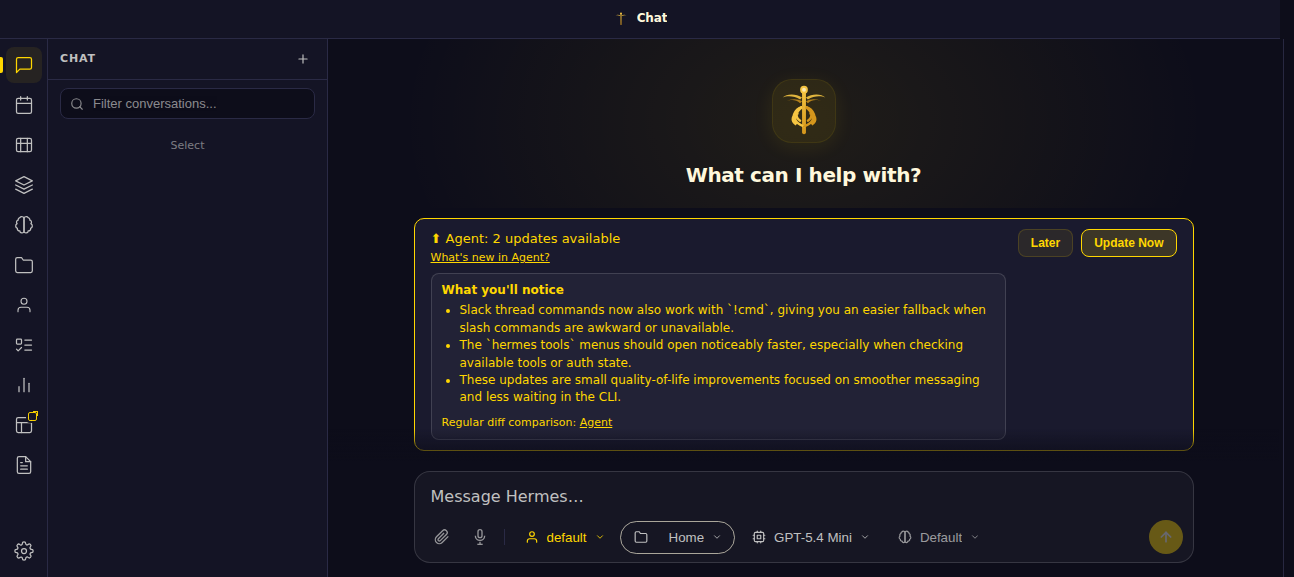
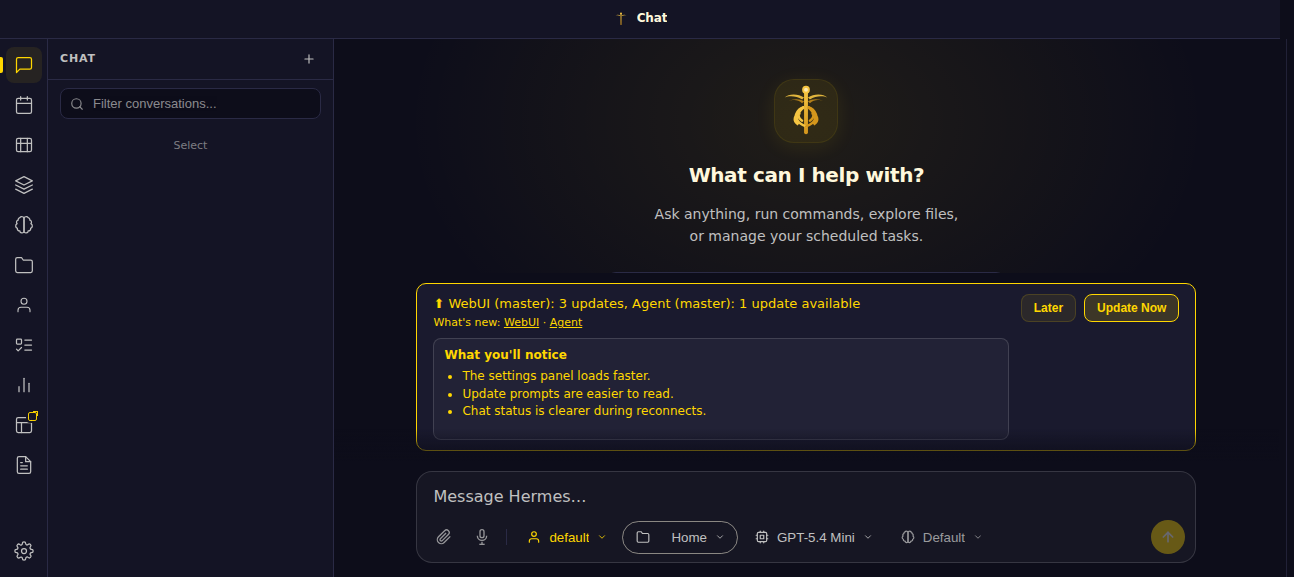
fix: refine update summary category handling
Keep distinct generated summary categories, route update-summary generation through the configured auxiliary model first, disclose capped large-range summary input, and constrain long summary panels.

diff --git a/static/style.css b/static/style.css
@@ -571,6 +571,7 @@
   .update-banner{display:none;background:var(--surface);border:1px solid var(--accent);border-radius:10px;padding:10px 16px;margin:10px auto;max-width:780px;width:calc(100% - 24px);box-sizing:border-box;font-size:13px;color:var(--accent-text);align-items:flex-start;justify-content:space-between;gap:12px;flex-wrap:wrap;overflow-wrap:anywhere;}
   .update-banner.visible{display:flex;}
   #updateMsg,#updateWhatsNewLinks,#updateSummaryPanel,#updateSummaryDiffLinks{max-width:100%;overflow-wrap:anywhere;word-break:break-word;}
+  #updateSummaryPanel{max-height:min(34vh,260px);overflow:auto;overscroll-behavior:contain;scrollbar-gutter:stable;scrollbar-width:thin;scrollbar-color:var(--accent) transparent;}
   #updateWhatsNewLinks{white-space:normal!important;margin-left:0!important;}
   .update-banner>div:last-child{margin-left:auto;}
   @media (max-width:600px){.update-banner{width:calc(100% - 16px);padding:10px 12px;gap:10px;}.update-banner>div:last-child{width:100%;justify-content:flex-end;}}

diff --git a/tests/test_update_banner_fixes.py b/tests/test_update_banner_fixes.py
@@ -418,7 +418,18 @@ class TestForceUpdateRoute:
         )
 
 
-# ── static/ui.js ──────────────────────────────────────────────────────────────
+class TestUpdateSummaryRouteModelSelection:
+    """Update summaries should use the auxiliary update-summary model before main model fallback."""
+
+    def test_summary_route_prefers_update_summary_auxiliary_model(self):
+        src = read('api/routes.py')
+
+        assert 'get_text_auxiliary_client' in src
+        assert '"update_summary"' in src
+        assert 'main_runtime=main_runtime' in src
+        assert 'update summary auxiliary model failed; falling back to main model' in src
+        assert 'from run_agent import AIAgent' in src
+
 
 class TestUiJsUpdateBanner:
     """#813 + #814 — UI must show persistent error, force button, and correct toast."""
@@ -792,7 +803,7 @@ class TestWhatsNewSummaryToggle:
         assert 'human-readable' in updates
         assert 'avoid technical jargon' in updates
         assert 'regular diff comparison' in updates
-        assert 'Return only bullets' in updates
+        assert 'Return only prefixed bullets' in updates
         assert 'def _format_update_summary_sections' in updates
 
     def test_update_summary_formats_llm_text_into_stable_sections(self):
@@ -875,6 +886,43 @@ class TestWhatsNewSummaryToggle:
         assert result['summary'].count(duplicate_menu_item) == 1
         assert result['summary'].count(duplicate_quality_item) == 1
 
+    def test_update_summary_keeps_all_categorized_notice_and_worth_bullets(self):
+        from api.updates import summarize_update_payload
+
+        result = summarize_update_payload(
+            {'webui': {'behind': 8, 'current_sha': 'abc', 'latest_sha': 'def', 'compare_url': 'https://example.test/webui'}},
+            llm_callback=lambda _system, _prompt: '\n'.join(
+                [
+                    'Notice: The settings panel loads faster.',
+                    'Notice: Update prompts are easier to read.',
+                    'Notice: Chat status is clearer during reconnects.',
+                    'Notice: Tool results stay grouped by source.',
+                    'Notice: Mobile controls remain visible.',
+                    'Worth knowing: Some labels were renamed to match the new flow.',
+                    'Worth knowing: The full diff is still available from the update banner.',
+                ]
+            ),
+            use_cache=False,
+        )
+        sections = {section['title']: section['items'] for section in result['summary_sections']}
+
+        assert sections["What you'll notice"] == [
+            'The settings panel loads faster.',
+            'Update prompts are easier to read.',
+            'Chat status is clearer during reconnects.',
+            'Tool results stay grouped by source.',
+            'Mobile controls remain visible.',
+        ]
+        assert sections['Worth knowing'] == [
+            'Some labels were renamed to match the new flow.',
+            'The full diff is still available from the update banner.',
+        ]
+
+    def test_update_summary_panel_is_scrollable_for_long_summaries(self):
+        style = read('static/style.css')
+
+        assert '#updateSummaryPanel{max-height:min(34vh,260px);overflow:auto;overscroll-behavior:contain;scrollbar-gutter:stable;scrollbar-width:thin;scrollbar-color:var(--accent) transparent;}' in style
+
     def test_update_summary_many_updates_caps_commit_input_and_discloses_scope(self, monkeypatch):
         import api.updates as upd
 
@@ -889,9 +937,11 @@ class TestWhatsNewSummaryToggle:
         def fake_llm(_system, prompt):
             prompts.append(prompt)
             return '\n'.join([
-                'Several user-facing fixes are ready.',
-                'Settings and update messaging should be easier to understand.',
-                'The update flow should feel safer and clearer.',
+                'Notice: Several user-facing fixes are ready.',
+                'Notice: Settings and update messaging should be easier to understand.',
+                'Notice: The update flow should feel safer and clearer.',
+                'Notice: Mobile update controls should stay reachable.',
+                'Worth knowing: Some lower-level cleanup supports the visible update changes.',
             ])
 
         result = upd.summarize_update_payload(
@@ -918,9 +968,11 @@ class TestWhatsNewSummaryToggle:
             'Several user-facing fixes are ready.',
             'Settings and update messaging should be easier to understand.',
             'The update flow should feel safer and clearer.',
+            'Mobile update controls should stay reachable.',
         ]
         assert sections['Worth knowing'] == [
-            'WebUI has 57 updates; this summary uses the latest 24 commit subjects, with the full comparison still available in the diff link.'
+            'Some lower-level cleanup supports the visible update changes.',
+            'WebUI has 57 updates; this summary uses the latest 24 commit subjects, with the full comparison still available in the diff link.',
         ]
         assert result['targets'][0]['commits_truncated'] is True
 

diff --git a/api/updates.py b/api/updates.py
@@ -369,11 +369,34 @@ def _clean_summary_bullet(line: str) -> str:
     return line[:240]
 
 
+def _split_summary_category(line: str) -> tuple[str | None, str]:
+    raw = str(line or '').strip()
+    match = re.match(r'^\s*(?:[-*•]+|\d+[.)])?\s*(notice|what you(?:ll|\'ll| will) notice|user(?:s)? will notice|worth knowing|worth|note)\s*:\s*(.+)$', raw, re.I)
+    if not match:
+        return None, raw
+    label = match.group(1).lower()
+    category = 'worth' if label in {'worth knowing', 'worth', 'note'} else 'notice'
+    return category, match.group(2)
+
+
+def _unique_summary_bullets(items: list[str]) -> list[str]:
+    seen = set()
+    bullets = []
+    for item in items:
+        cleaned = _clean_summary_bullet(item)
+        key = cleaned.lower()
+        if cleaned and key not in seen:
+            bullets.append(cleaned)
+            seen.add(key)
+    return bullets
+
+
 def _summary_bullets_from_text(text: str, *, fallback_items: list[str]) -> list[str]:
     raw = str(text or '').strip()
     candidates = []
     for line in raw.splitlines():
-        cleaned = _clean_summary_bullet(line)
+        _category, body = _split_summary_category(line)
+        cleaned = _clean_summary_bullet(body)
         if cleaned:
             candidates.append(cleaned)
     if len(candidates) <= 1 and raw:
@@ -381,16 +404,20 @@ def _summary_bullets_from_text(text: str, *, fallback_items: list[str]) -> list[
         candidates = [item for item in candidates if item]
     if not candidates:
         candidates = [_clean_summary_bullet(item) for item in fallback_items]
-    seen = set()
-    bullets = []
-    for item in candidates:
-        key = item.lower()
-        if item and key not in seen:
-            bullets.append(item)
-            seen.add(key)
-        if len(bullets) >= 5:
-            break
+    bullets = _unique_summary_bullets(candidates)
     return bullets or ['Updates are available.']
+
+
+def _categorized_summary_bullets_from_text(text: str) -> tuple[list[str], list[str]]:
+    notice_items: list[str] = []
+    worth_items: list[str] = []
+    for line in str(text or '').splitlines():
+        category, body = _split_summary_category(line)
+        if category == 'notice':
+            notice_items.append(body)
+        elif category == 'worth':
+            worth_items.append(body)
+    return _unique_summary_bullets(notice_items), _unique_summary_bullets(worth_items)
 
 
 def _fallback_update_bullets(details: list[dict]) -> list[str]:
@@ -431,21 +458,15 @@ def _worth_knowing_bullets(details: list[dict]) -> list[str]:
 
 
 def _format_update_summary_sections(summary_text: str, details: list[dict]) -> tuple[list[dict], str]:
-    bullets = _summary_bullets_from_text(summary_text, fallback_items=_fallback_update_bullets(details))
-    if len(bullets) > 1:
-        notice_items = bullets[:3]
-        worth_items = bullets[3:]
-    else:
-        notice_items = bullets
-        worth_items = []
+    notice_items, worth_items = _categorized_summary_bullets_from_text(summary_text)
+    if not notice_items:
+        notice_items = _summary_bullets_from_text(summary_text, fallback_items=_fallback_update_bullets(details))
     notice_keys = {item.lower() for item in notice_items}
     worth_items = [item for item in worth_items if item.lower() not in notice_keys]
-    if not worth_items:
-        worth_items = [
-            item for item in _worth_knowing_bullets(details)
-            if item.lower() not in notice_keys
-        ]
-    worth_items = worth_items[:2]
+    worth_items.extend(
+        item for item in _worth_knowing_bullets(details)
+        if item.lower() not in notice_keys and item.lower() not in {existing.lower() for existing in worth_items}
+    )
     sections = [
         {
             'title': "What you'll notice",
@@ -480,9 +501,12 @@ def _update_summary_prompt(details: list[dict]) -> tuple[str, str]:
         "Return only bullets. Do not include headings, markdown tables, intro paragraphs, or closing notes."
     )
     user_lines = [
-        "Summarize these available updates as 3-5 concise bullets.",
+        "Summarize these available updates as concise bullets.",
+        "Prefix each bullet with `Notice:` for user-visible behavior changes or `Worth knowing:` for useful context.",
+        "Put user-visible Notice bullets first and include every meaningful user-facing change from the available commit subjects.",
+        "Use Worth knowing only for helpful context that is not a duplicate of a Notice bullet.",
         "Use everyday language and explain visible behavior changes, not code mechanics.",
-        "Return only bullets; the WebUI will add the fixed section headings separately.",
+        "Return only prefixed bullets; the WebUI will add the fixed section headings separately.",
         "",
     ]
     for item in details:

diff --git a/api/routes.py b/api/routes.py
@@ -5312,41 +5312,71 @@ def handle_post(handler, parsed) -> bool:
         target = body.get("target") if isinstance(body, dict) else None
 
         def _llm_update_summary(system_prompt: str, user_prompt: str) -> str:
-            from run_agent import AIAgent
             from api.config import (
                 get_effective_default_model,
                 resolve_model_provider,
                 resolve_custom_provider_connection,
             )
 
-            _model, _provider, _base_url = resolve_model_provider(get_effective_default_model())
-            _api_key = None
+            messages = [
+                {"role": "system", "content": system_prompt},
+                {"role": "user", "content": user_prompt},
+            ]
+
+            _main_model, _main_provider, _main_base_url = resolve_model_provider(get_effective_default_model())
+            _main_api_key = None
             try:
                 from api.oauth import resolve_runtime_provider_with_anthropic_env_lock
                 from hermes_cli.runtime_provider import resolve_runtime_provider
 
                 _rt = resolve_runtime_provider_with_anthropic_env_lock(
                     resolve_runtime_provider,
-                    requested=_provider,
+                    requested=_main_provider,
                 )
-                _api_key = _rt.get("api_key")
-                if not _provider:
-                    _provider = _rt.get("provider")
-                if not _base_url:
-                    _base_url = _rt.get("base_url")
+                _main_api_key = _rt.get("api_key")
+                if not _main_provider:
+                    _main_provider = _rt.get("provider")
+                if not _main_base_url:
+                    _main_base_url = _rt.get("base_url")
             except Exception as _e:
                 logger.debug("update summary runtime provider resolution failed: %s", _e)
-            if isinstance(_provider, str) and _provider.startswith("custom:"):
-                _cp_key, _cp_base = resolve_custom_provider_connection(_provider)
-                if not _api_key and _cp_key:
-                    _api_key = _cp_key
-                if not _base_url and _cp_base:
-                    _base_url = _cp_base
+            if isinstance(_main_provider, str) and _main_provider.startswith("custom:"):
+                _cp_key, _cp_base = resolve_custom_provider_connection(_main_provider)
+                if not _main_api_key and _cp_key:
+                    _main_api_key = _cp_key
+                if not _main_base_url and _cp_base:
+                    _main_base_url = _cp_base
+
+            main_runtime = {
+                "provider": _main_provider,
+                "model": _main_model,
+                "base_url": _main_base_url,
+                "api_key": _main_api_key,
+            }
+
+            try:
+                from agent.auxiliary_client import get_text_auxiliary_client
+
+                aux_client, aux_model = get_text_auxiliary_client(
+                    "update_summary",
+                    main_runtime=main_runtime,
+                )
+                if aux_client is not None and aux_model:
+                    response = aux_client.chat.completions.create(
+                        model=aux_model,
+                        messages=messages,
+                    )
+                    return str(response.choices[0].message.content or "").strip()
+            except Exception as _e:
+                logger.debug("update summary auxiliary model failed; falling back to main model: %s", _e)
+
+            from run_agent import AIAgent
+
             agent = AIAgent(
-                model=_model,
-                provider=_provider,
-                base_url=_base_url,
-                api_key=_api_key,
+                model=_main_model,
+                provider=_main_provider,
+                base_url=_main_base_url,
+                api_key=_main_api_key,
                 platform="webui",
                 quiet_mode=True,
                 enabled_toolsets=[],

diff --git a/CHANGELOG.md b/CHANGELOG.md
@@ -8,7 +8,7 @@
 
 ### Fixed
 
-- **PR #2234** by @Jordan-SkyLF (refines #2207) — Three update-banner improvements: (1) Update summaries no longer repeat the same bullet under both "What you'll notice" and "Worth knowing" — visible notice items keep priority, and the secondary section is omitted when there is no distinct detail to show. (2) Update summaries now cap large commit lists (24 + probe item) before sending them to the summarizer and disclose when the summary uses only the latest commit subjects, while keeping the full comparison link available — bounds summarizer cost on large update ranges while remaining honest about coverage. (3) Update banners now wrap generated-summary links and long update text on narrow/mobile screens inside the banner instead of pushing controls off-screen. 108-line regression coverage for short-target dedup, repeated Agent-summary bullets, large-range capped input, and responsive wrapping.
+- **PR #2234** by @Jordan-SkyLF (follow-up to the v0.51.61 update-banner cleanup, refines #2207) — Generated update summaries now preserve all explicit `Notice:` / `Worth knowing:` bullets, deduplicate categorized bullets, prefer the configured `auxiliary.update_summary` text model with main-model fallback, disclose when large ranges are summarized from the latest 24 commit subjects, and constrain long summary panels with visible scroll behavior. Regression coverage pins repeated Agent-summary bullets, all categorized bullets, large-range capped input/disclosure, auxiliary-model routing, and scrollable long-summary panels.
 
 - **PR #2236** by @jasonjcwu — Silent failure detection in `api/streaming.py` now scans only NEW messages, not the full conversation history. Pre-fix, the `_assistant_added` check at `_run_agent_streaming` scanned all messages in `result["messages"]` (including pre-turn history); if any prior turn contained an assistant response, `_assistant_added` was `True` and the apperror SSE event was silently skipped, leaving the user staring at a blank response after a provider 401/429/rate-limit error. Fix extracts a `_has_new_assistant_reply(all_messages, prev_count)` helper that only inspects messages beyond the pre-turn history offset (`_previous_context_messages`); applied to both the main detection path and the self-heal/retry `_heal_ok` check. 15-test regression suite covering empty/short/long-history scenarios, the heal path, and the `len < prev_count` edge-case fallback. Also includes a small alignment fix to `test_issue1857_usage_overwrite.py` so the FakeAgent message shape matches what the real agent produces.
 
